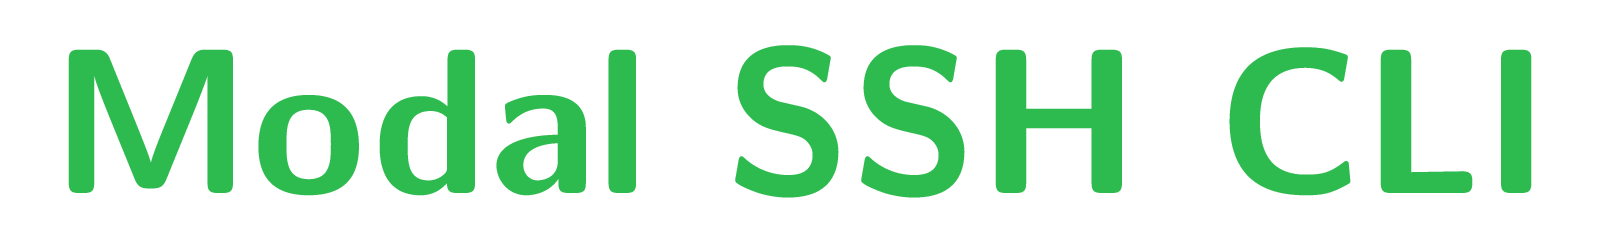
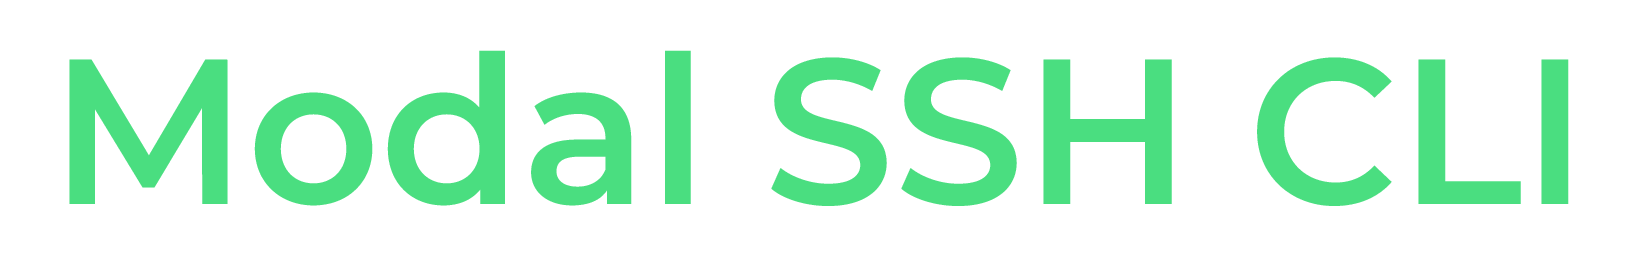
update README

Changed region(s): [[0.0312, 0.1728, 0.7188, 0.8354], [0.75, 0.1728, 0.9688, 0.8066]]

diff --git a/modal/modal_ssh/assets/modal_ssh_cli.tex b/modal/modal_ssh/assets/modal_ssh_cli.tex
@@ -1,9 +1,10 @@
 \documentclass[border=6pt,convert={density=600,outext=.png}]{standalone}
 \usepackage{xcolor}
 \usepackage[T1]{fontenc}
-\usepackage{lmodern}
+\usepackage[defaultfam,tabular,lining,semibold]{montserrat}
+\renewcommand{\familydefault}{\sfdefault}
 % Modal-logo green (sampled from logo gradient mid-tone)
-\definecolor{modalgreen}{HTML}{2DBA4E}
+\definecolor{modalgreen}{HTML}{4ADE80}
 \begin{document}
 \sffamily\bfseries\Huge
 \color{modalgreen}Modal SSH CLI
